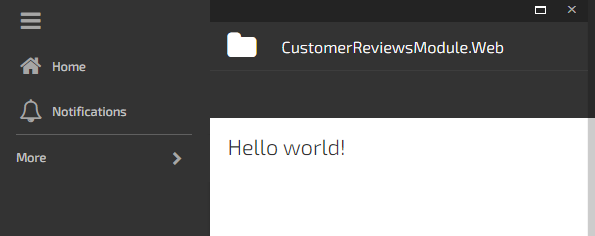
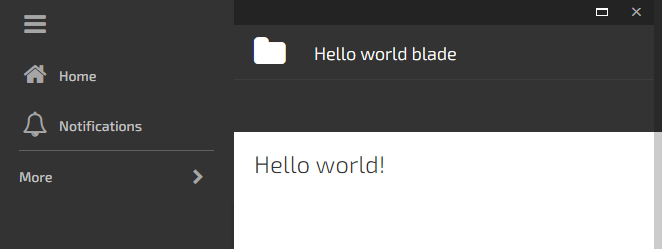
review fix

diff --git a/pages/docs/lessons/lesson3.md b/pages/docs/lessons/lesson3.md
@@ -82,11 +82,13 @@ Compile solution and restart IIS (use iisreset.exe command). After that, Custome
 
 ![CustomerReviesModule in Platform Manager](../../assets/images/docs/screen-customerreviesmodule-in-platform-manager.png)
 
-Click on **CustomerReviewsModule.Web** and you should see "Hello world" blade
+Click on **CustomerReviewsModule** and you should see "Hello world" blade
 
 ![Hellow world! blade](../../assets/images/docs/screen-hellow-world-blade.png)
 
-## First compile and debug
+## Debugging
+
+### Debugging C# code
 
 To debug C# code at run-time you have to attach debugger to IIS instance.
 In Visual Studio:
@@ -105,9 +107,9 @@ In order to enable JS debugging, change platform's Web.config, app setting **Vir
 <add key="VirtoCommerce:EnableBundlesOptimizations" value="false" />
 ```
 
-## Debugging module Rest API
+### Debugging module Rest API
 
-### Swagger API
+#### Swagger API
 
 You can test CustomerReviews module API endpoints by using "REST API documentation" (Swagger) UI. Browse **[localhost/admin/docs/ui/index]** URL:
 
@@ -115,10 +117,10 @@ You can test CustomerReviews module API endpoints by using "REST API documentati
 
 Here you can find all the API methods, exposed by Platform and installed modules as well.
 
-### Testing module Rest API Endpoints
+#### Testing module Rest API Endpoints
 
 Click on "Sample Customer reviews module" to see the available endpoints.
-When the new module is generated from a template, there is only one endpoint **api/CustomerReviewsModule.Web** included, returning "Hello, world!":
+When the new module is generated from a template, there is only one endpoint **api/CustomerReviewsModule** included, returning "Hello, world!":
 
 ![Swagger Get API](../../assets/images/docs/screen-swagger-get-api.png)
 
@@ -488,11 +490,33 @@ Typical *module.manifest* structure is:
 </permissions>
 ```
 
-### The Main class
+### Module.cs and initialization flow
 
-All the classes used here are registered inside of a base class Module. Which is the base class for the entire module. In this case, it’s Customer Reviews module.
+*Module.cs* is the main entry point of managed code, the base class for the entire module. In this case, it’s Customer Reviews module. Module initialization flow contains several steps:
 
-#### Dependency Injection
+* Setup Database;
+* Initialization:
+  * Services registration;
+* Post initialization:
+  * Override registrations;
+  * Store dependent settings registration.
+
+#### Setup Database
+
+First step is to registry repositories defined in **Data** project (including migrations) and initialize database. The database is initialized in the **SetupDatabase()** method:
+
+```c#
+public override void SetupDatabase()
+{
+    using (var db = new CustomerReviewRepository(_connectionString, _container.Resolve<AuditableInterceptor>()))
+    {
+        var initializer = new SetupDatabaseInitializer<CustomerReviewRepository, Data.Migrations.Configuration>();
+        initializer.InitializeDatabase(db);
+    }
+}
+```
+
+#### Initialization
 
 Interfaces are using in services in CustomerReviews module. That’s because a dependency injection always used. Inside of **Initialize()** method in the Main class register the Service implementations of the module and link them with the interfaces:
 
@@ -514,26 +538,15 @@ The method registers a specific signature for the type that will be injected for
 
 This is called a loose coupling mechanism.
 
-#### Setup Database
+#### Post initialization
 
-Next step is to registry repositories defined in **Data** project and initialize database.
+If you need to override existing registrations or register new store dependent settings you can do this in **PostInitialize()** method.
 
-```c#
-public override void SetupDatabase()
-{
-    using (var db = new CustomerReviewRepository(_connectionString, _container.Resolve<AuditableInterceptor>()))
-    {
-        var initializer = new SetupDatabaseInitializer<CustomerReviewRepository, Data.Migrations.Configuration>();
-        initializer.InitializeDatabase(db);
-    }
-}
-```
+### Module settings
 
-#### Module settings
+A setting is a parameter that a module accepts. More details on settings: https://virtocommerce.com/docs/vc2devguide/working-with-platform-manager/extending-functionality/managing-module-settings
 
-Module settings needed to check if a specific feature is enabled, or to determine which search engine to use in CustomerReviews module.
-
-First of all define custom settings in *module.manifest*.
+First of all define *CustomerReviews.CustomerReviewsEnabled* setting in *module.manifest* like this:
 
 ```xml
 <settings>
@@ -549,11 +562,12 @@ First of all define custom settings in *module.manifest*.
 </settings>
 ```
 
-Next define module settings with the Setting manager:
+A new, global module setting is defined. Make the Reviews enabled/disabled setting value configurable for each individual store (scope-bounded):
 
-* register the **ISettingsManager**;
-* get module settings from *module.manifest*;
-* create key, value associations:
+* get instance of **ISettingsManager**;
+* define a list of settings that will be scope-bounded;
+* get the actual definitions of those settings;
+* register the settings as scope-bounded in "VirtoCommerce.Store" module:
 
 ```c#
 public override void PostInitialize()
@@ -601,7 +615,7 @@ From the backend side methods protected with CheckPermission:
 ### Testing Rest API Endpoints in Swagger
 
 Besides the JavaScript, you can test module API endpoints, with the Swagger. Compile solution and restart IIS (use iisreset.exe command). Open the Swagger interface URL: **[localhost://admin/docs/ui/index]** and click on "Customer reviews module" to see the available endpoints.
-You can test the search functionality for instance. Under the **api/CustomerReviewsModule.Web/search** endpoint you can create simple or nested, compound criteria. It accepts the criteria as a simple object. After providing the criteria hit the "Try it out" button.
+You can test the search functionality for instance. Under the **api/CustomerReviewsModule/search** endpoint you can create simple or nested, compound criteria. It accepts the criteria as a simple object. After providing the criteria hit the "Try it out" button.
 
 ![Swagger Search API](../../assets/images/docs/screen-swagger-search-api.png)
 
@@ -635,8 +649,6 @@ To deploy CustomerReviews module to other platforms use the package manager tool
 compress-module
 ```
 
-After execution, the command will create the .zip module package. You can deploy it to the other environment.
-
-Try it in [admin-demo](https://admin-demo.virtocommerce.com) application. Go to **Modules>Advanced>Install/update module from file**. Upload the .zip file that created with package manager. After checking, the upload details hit the **Install** button. **Restart** the application.
+After execution, the command will create the .zip module package. You can deploy it to the other environment. Go to **Modules>Advanced>Install/update module from file**. Upload the .zip file that created with package manager. After checking, the upload details hit the **Install** button. **Restart** the application.
 
 Under the hood, the application will unzip the file, check the structure, and copy all the required classes to the Modules folder of the current application.
